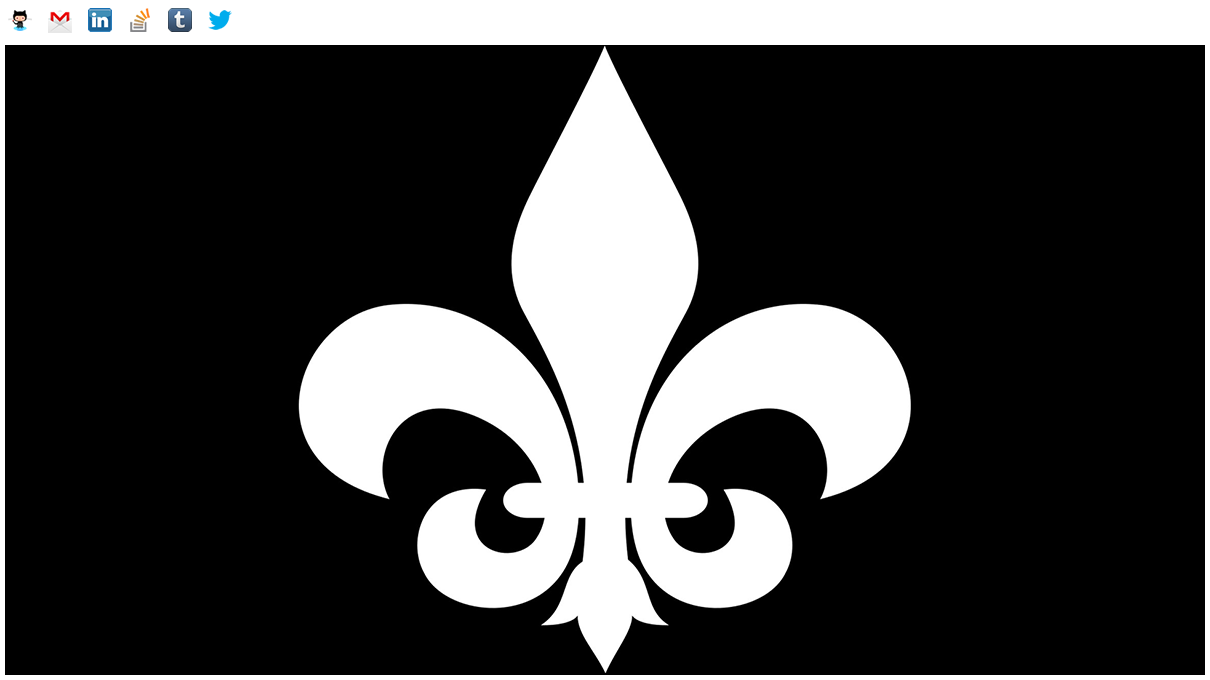
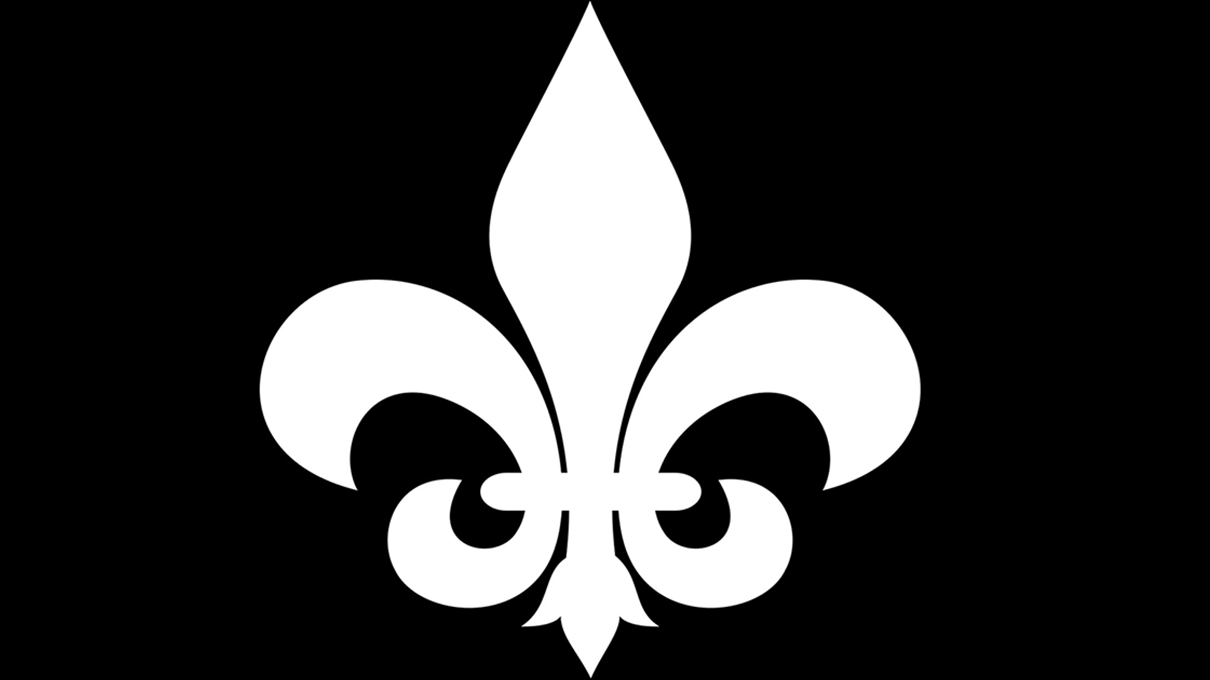
ファイル修正

diff --git a/src/locales/fr/meta.ts b/src/locales/fr/meta.ts
@@ -1,7 +1,6 @@
 import { Metadata } from 'next'
 import { BASE_URL, LEDENM } from 'src/constants/ledenm'
 import ogImage from 'src/app/opengraph-image.png'
-import twitterImage from 'src/app/twitter-image.png'
 
 const DESCRIPTION = 'लेडेनम द्वारा निर्मित अनुप्रयोगों का परिचय'
 const LOCALE_URL = `${BASE_URL}/fr`
@@ -24,9 +23,9 @@ export const meta: Metadata = {
     card: 'summary_large_image',
     images: [
       {
-        url: twitterImage.src,
-        width: twitterImage.width,
-        height: twitterImage.height
+        url: ogImage.src,
+        width: ogImage.width,
+        height: ogImage.height
       }
     ]
   }

diff --git a/src/locales/ru/meta.ts b/src/locales/ru/meta.ts
@@ -1,7 +1,6 @@
 import { Metadata } from 'next'
 import { BASE_URL, LEDENM } from 'src/constants/ledenm'
 import ogImage from 'src/app/opengraph-image.png'
-import twitterImage from 'src/app/twitter-image.png'
 
 const DESCRIPTION = 'Знакомство с приложениями, созданными леденмом'
 const LOCALE_URL = `${BASE_URL}/ru`
@@ -24,9 +23,9 @@ export const meta: Metadata = {
     card: 'summary_large_image',
     images: [
       {
-        url: twitterImage.src,
-        width: twitterImage.width,
-        height: twitterImage.height
+        url: ogImage.src,
+        width: ogImage.width,
+        height: ogImage.height
       }
     ]
   }

diff --git a/src/locales/ar/meta.ts b/src/locales/ar/meta.ts
@@ -1,7 +1,6 @@
 import { Metadata } from 'next'
 import { BASE_URL, LEDENM } from 'src/constants/ledenm'
 import ogImage from 'src/app/opengraph-image.png'
-import twitterImage from 'src/app/twitter-image.png'
 
 const DESCRIPTION = 'مقدمة للتطبيقات التي تم إنشاؤها بواسطة ledenm\n'
 const LOCALE_URL = `${BASE_URL}/ar`
@@ -24,9 +23,9 @@ export const meta: Metadata = {
     card: 'summary_large_image',
     images: [
       {
-        url: twitterImage.src,
-        width: twitterImage.width,
-        height: twitterImage.height
+        url: ogImage.src,
+        width: ogImage.width,
+        height: ogImage.height
       }
     ]
   }

diff --git a/src/locales/es/meta.ts b/src/locales/es/meta.ts
@@ -1,7 +1,6 @@
 import { Metadata } from 'next'
 import { BASE_URL, LEDENM } from 'src/constants/ledenm'
 import ogImage from 'src/app/opengraph-image.png'
-import twitterImage from 'src/app/twitter-image.png'
 
 const DESCRIPTION = 'Introducción a las aplicaciones creadas por ledenm.'
 const LOCALE_URL = `${BASE_URL}/es`
@@ -24,9 +23,9 @@ export const meta: Metadata = {
     card: 'summary_large_image',
     images: [
       {
-        url: twitterImage.src,
-        width: twitterImage.width,
-        height: twitterImage.height
+        url: ogImage.src,
+        width: ogImage.width,
+        height: ogImage.height
       }
     ]
   }

diff --git a/src/locales/hi/meta.ts b/src/locales/hi/meta.ts
@@ -1,7 +1,6 @@
 import { Metadata } from 'next'
 import { BASE_URL, LEDENM } from 'src/constants/ledenm'
 import ogImage from 'src/app/opengraph-image.png'
-import twitterImage from 'src/app/twitter-image.png'
 
 const DESCRIPTION = 'Introduction aux applications créées par ledenm'
 const LOCALE_URL = `${BASE_URL}/hi`
@@ -24,9 +23,9 @@ export const meta: Metadata = {
     card: 'summary_large_image',
     images: [
       {
-        url: twitterImage.src,
-        width: twitterImage.width,
-        height: twitterImage.height
+        url: ogImage.src,
+        width: ogImage.width,
+        height: ogImage.height
       }
     ]
   }

diff --git a/src/locales/pt/meta.ts b/src/locales/pt/meta.ts
@@ -1,7 +1,7 @@
 import { Metadata } from 'next'
 import { BASE_URL, LEDENM } from 'src/constants/ledenm'
 import ogImage from 'src/app/opengraph-image.png'
-import twitterImage from 'src/app/twitter-image.png'
+
 
 const DESCRIPTION = 'Introdução aos aplicativos criados por LEDENM'
 const LOCALE_URL = `${BASE_URL}/pt`
@@ -24,9 +24,9 @@ export const meta: Metadata = {
     card: 'summary_large_image',
     images: [
       {
-        url: twitterImage.src,
-        width: twitterImage.width,
-        height: twitterImage.height
+        url: ogImage.src,
+        width: ogImage.width,
+        height: ogImage.height
       }
     ]
   }

diff --git a/src/locales/de/meta.ts b/src/locales/de/meta.ts
@@ -1,7 +1,6 @@
 import { Metadata } from 'next'
 import { BASE_URL, LEDENM } from 'src/constants/ledenm'
 import ogImage from 'src/app/opengraph-image.png'
-import twitterImage from 'src/app/twitter-image.png'
 
 const DESCRIPTION = 'Einführung in von ledenm erstellte Anwendungen'
 const LOCALE_URL = `${BASE_URL}/de`
@@ -24,9 +23,9 @@ export const meta: Metadata = {
     card: 'summary_large_image',
     images: [
       {
-        url: twitterImage.src,
-        width: twitterImage.width,
-        height: twitterImage.height
+        url: ogImage.src,
+        width: ogImage.width,
+        height: ogImage.height
       }
     ]
   }

diff --git a/src/locales/it/meta.ts b/src/locales/it/meta.ts
@@ -1,7 +1,6 @@
 import { Metadata } from 'next'
 import { BASE_URL, LEDENM } from 'src/constants/ledenm'
 import ogImage from 'src/app/opengraph-image.png'
-import twitterImage from 'src/app/twitter-image.png'
 
 const DESCRIPTION = 'Introduzione alle applicazioni create da ledenm'
 const LOCALE_URL = `${BASE_URL}/it`
@@ -24,9 +23,9 @@ export const meta: Metadata = {
     card: 'summary_large_image',
     images: [
       {
-        url: twitterImage.src,
-        width: twitterImage.width,
-        height: twitterImage.height
+        url: ogImage.src,
+        width: ogImage.width,
+        height: ogImage.height
       }
     ]
   }

diff --git a/src/locales/ja/meta.ts b/src/locales/ja/meta.ts
@@ -1,7 +1,6 @@
 import { Metadata } from 'next'
 import { BASE_URL, LEDENM } from 'src/constants/ledenm'
 import ogImage from 'src/app/opengraph-image.png'
-import twitterImage from 'src/app/twitter-image.png'
 
 const DESCRIPTION = 'LEDENM が作ったアプリの紹介ページ'
 const LOCALE_URL = `${BASE_URL}/ja`
@@ -24,9 +23,9 @@ export const meta: Metadata = {
     card: 'summary_large_image',
     images: [
       {
-        url: twitterImage.src,
-        width: twitterImage.width,
-        height: twitterImage.height
+        url: ogImage.src,
+        width: ogImage.width,
+        height: ogImage.height
       }
     ]
   }

diff --git a/src/locales/ko/meta.ts b/src/locales/ko/meta.ts
@@ -1,7 +1,6 @@
 import { Metadata } from 'next'
 import { BASE_URL, LEDENM } from 'src/constants/ledenm'
 import ogImage from 'src/app/opengraph-image.png'
-import twitterImage from 'src/app/twitter-image.png'
 
 const DESCRIPTION = 'LEDENM 으로 만든 애플리케이션 소개'
 const LOCALE_URL = `${BASE_URL}/ko`
@@ -24,9 +23,9 @@ export const meta: Metadata = {
     card: 'summary_large_image',
     images: [
       {
-        url: twitterImage.src,
-        width: twitterImage.width,
-        height: twitterImage.height
+        url: ogImage.src,
+        width: ogImage.width,
+        height: ogImage.height
       }
     ]
   }

diff --git a/src/locales/id/meta.ts b/src/locales/id/meta.ts
@@ -1,7 +1,6 @@
 import { Metadata } from 'next'
 import { BASE_URL, LEDENM } from 'src/constants/ledenm'
 import ogImage from 'src/app/opengraph-image.png'
-import twitterImage from 'src/app/twitter-image.png'
 
 const DESCRIPTION = 'Pengenalan aplikasi yang dibuat oleh ledenm'
 const LOCALE_URL = `${BASE_URL}/id`
@@ -24,9 +23,9 @@ export const meta: Metadata = {
     card: 'summary_large_image',
     images: [
       {
-        url: twitterImage.src,
-        width: twitterImage.width,
-        height: twitterImage.height
+        url: ogImage.src,
+        width: ogImage.width,
+        height: ogImage.height
       }
     ]
   }

diff --git a/src/locales/en/meta.ts b/src/locales/en/meta.ts
@@ -1,7 +1,6 @@
 import { Metadata } from 'next'
 import { BASE_URL, LEDENM } from 'src/constants/ledenm'
 import ogImage from 'src/app/opengraph-image.png'
-import twitterImage from 'src/app/twitter-image.png'
 
 const DESCRIPTION = 'Introduction to applications created by ledenm'
 const LOCALE_URL = BASE_URL
@@ -24,9 +23,9 @@ export const meta: Metadata = {
     card: 'summary_large_image',
     images: [
       {
-        url: twitterImage.src,
-        width: twitterImage.width,
-        height: twitterImage.height
+        url: ogImage.src,
+        width: ogImage.width,
+        height: ogImage.height
       }
     ]
   }
